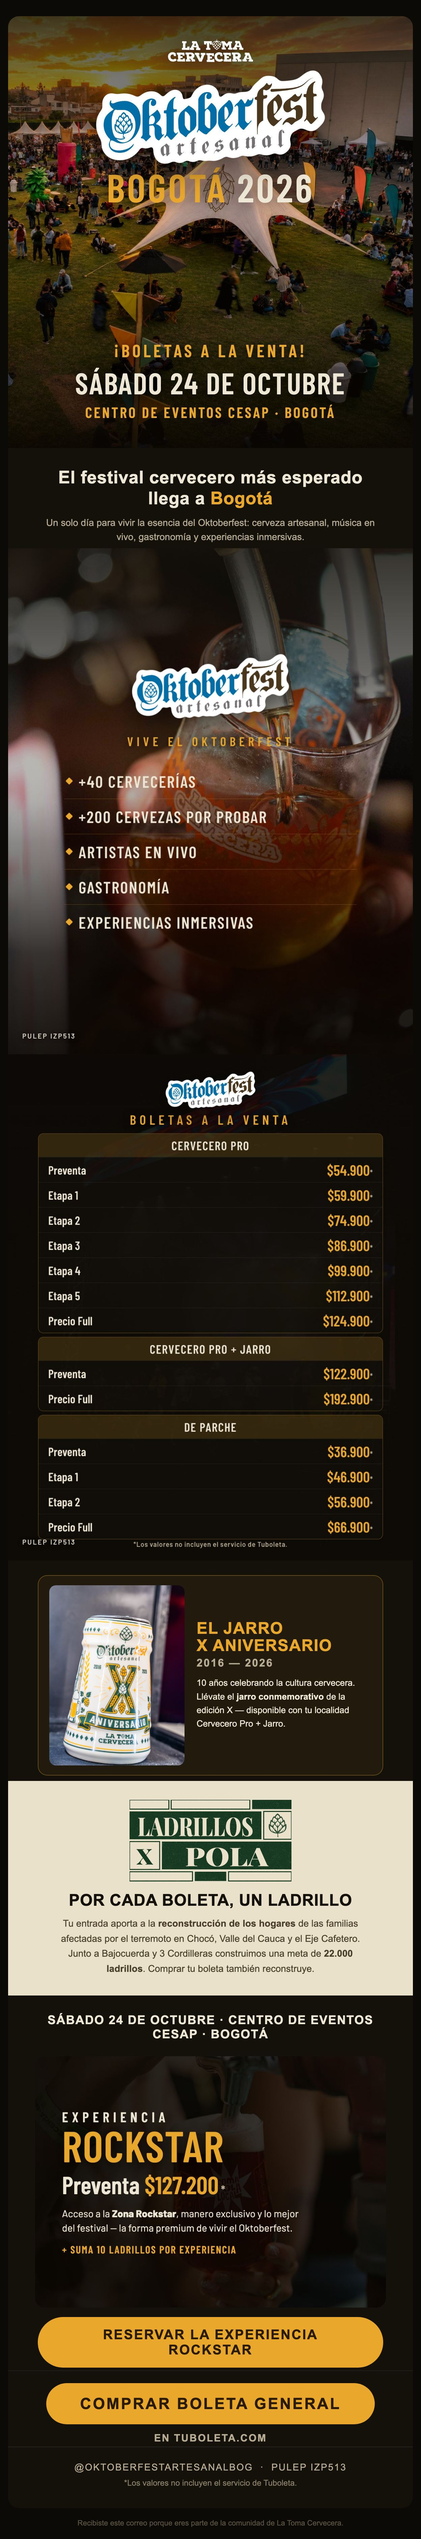
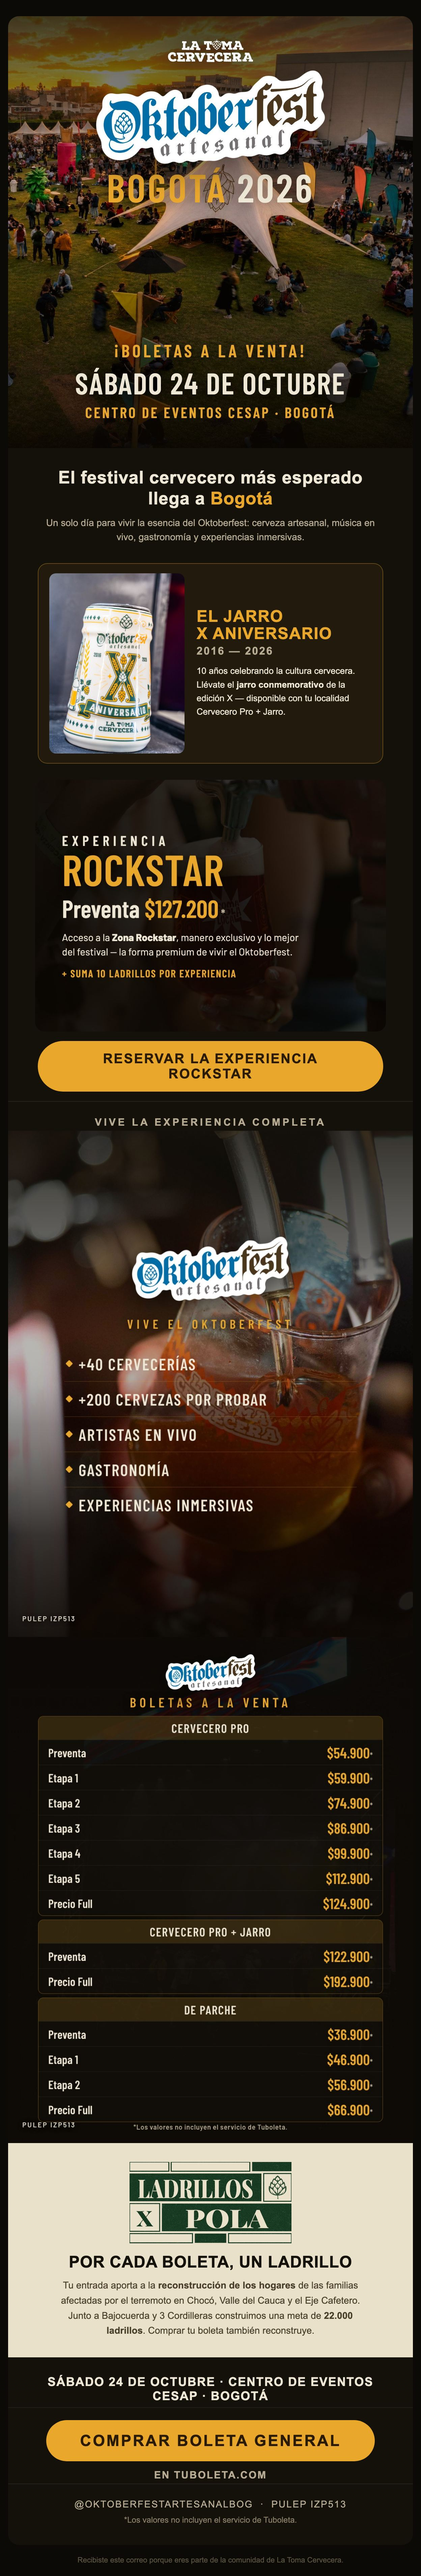
feat: reordena emails — arriba jarro + Experiencia Rockstar (Medellín: Line Up primero); info de valor + Ladrillos abajo

diff --git a/piezas-bogota/renders/email/email-oktoberfest-medellin.html b/piezas-bogota/renders/email/email-oktoberfest-medellin.html
@@ -21,36 +21,12 @@
         experiencias y las atracciones del Parque Norte. 12 horas de festival: 12:00 m. a 12:00 a. m.</div>
     </td></tr>
 
-    <tr><td style="padding:14px 66px 6px;text-align:center;">
-      <div style="font-family:'Barlow Condensed',Arial,sans-serif;font-size:16px;font-weight:600;letter-spacing:.24em;
-        text-transform:uppercase;color:#E9A72C;margin-bottom:6px;">Todo esto te espera</div>
-      <table role="presentation" width="100%" cellpadding="0" cellspacing="0"><tr><td style="padding:8px 0;font-family:'Barlow Condensed',Arial,sans-serif;font-size:24px;
-      font-weight:600;letter-spacing:.04em;text-transform:uppercase;color:#EEE7D6">
-      <span style="color:#E9A72C">&#9670;</span>&nbsp;&nbsp;+70 Cervecerías</td></tr><tr><td style="padding:8px 0;font-family:'Barlow Condensed',Arial,sans-serif;font-size:24px;
-      font-weight:600;letter-spacing:.04em;text-transform:uppercase;color:#EEE7D6">
-      <span style="color:#E9A72C">&#9670;</span>&nbsp;&nbsp;+350 Cervezas por probar</td></tr><tr><td style="padding:8px 0;font-family:'Barlow Condensed',Arial,sans-serif;font-size:24px;
-      font-weight:600;letter-spacing:.04em;text-transform:uppercase;color:#EEE7D6">
-      <span style="color:#E9A72C">&#9670;</span>&nbsp;&nbsp;4 Escenarios en simultáneo</td></tr><tr><td style="padding:8px 0;font-family:'Barlow Condensed',Arial,sans-serif;font-size:24px;
-      font-weight:600;letter-spacing:.04em;text-transform:uppercase;color:#EEE7D6">
-      <span style="color:#E9A72C">&#9670;</span>&nbsp;&nbsp;Artistas en vivo</td></tr><tr><td style="padding:8px 0;font-family:'Barlow Condensed',Arial,sans-serif;font-size:24px;
-      font-weight:600;letter-spacing:.04em;text-transform:uppercase;color:#EEE7D6">
-      <span style="color:#E9A72C">&#9670;</span>&nbsp;&nbsp;Gastronomía urbana</td></tr><tr><td style="padding:8px 0;font-family:'Barlow Condensed',Arial,sans-serif;font-size:24px;
-      font-weight:600;letter-spacing:.04em;text-transform:uppercase;color:#EEE7D6">
-      <span style="color:#E9A72C">&#9670;</span>&nbsp;&nbsp;Atracciones del parque</td></tr></table>
-    </td></tr>
-
     <tr><td style="padding:22px 40px 6px;text-align:center;">
       <div style="font-family:'Barlow Condensed',Arial,sans-serif;font-size:16px;font-weight:600;letter-spacing:.24em;
         text-transform:uppercase;color:#E9A72C;margin-bottom:10px;">Line Up · Artistas confirmados</div>
       <a href="https://www.latiquetera.com" target="_blank"><img src="https://raw.githubusercontent.com/jdbeuth83/propuesta-oktoberfest-2026/claude/tuboleta-piezas-bogota/piezas-bogota/renders/email/lineup-medellin.jpg" width="600" alt="Line Up Oktoberfest Artesanal Medellín 2026: Kraken, Tributo a Caifanes, The Mills, Bajo Tierra, Tributo a Molotov, Nepentes, Lianna, Manuel Urrego, Terlete, DJ Tobby"
         style="display:block;width:100%;max-width:600px;height:auto;border-radius:12px;border:0;"></a>
     </td></tr>
-
-    <tr><td style="padding:10px 40px 6px;">
-      <table role="presentation" width="100%" cellpadding="0" cellspacing="0">
-        <tr><td width="50%" style="padding:4px;"><img src="https://raw.githubusercontent.com/jdbeuth83/propuesta-oktoberfest-2026/claude/tuboleta-piezas-bogota/piezas-bogota/renders/email/med-gal-1.jpg" width="292" alt="Cerveza artesanal" style="display:block;width:100%;height:auto;border-radius:10px;border:0;"></td><td width="50%" style="padding:4px;"><img src="https://raw.githubusercontent.com/jdbeuth83/propuesta-oktoberfest-2026/claude/tuboleta-piezas-bogota/piezas-bogota/renders/email/med-gal-2.jpg" width="292" alt="Escenarios en vivo" style="display:block;width:100%;height:auto;border-radius:10px;border:0;"></td></tr>
-        <tr><td width="50%" style="padding:4px;"><img src="https://raw.githubusercontent.com/jdbeuth83/propuesta-oktoberfest-2026/claude/tuboleta-piezas-bogota/piezas-bogota/renders/email/med-gal-3.jpg" width="292" alt="Miles de asistentes" style="display:block;width:100%;height:auto;border-radius:10px;border:0;"></td><td width="50%" style="padding:4px;"><img src="https://raw.githubusercontent.com/jdbeuth83/propuesta-oktoberfest-2026/claude/tuboleta-piezas-bogota/piezas-bogota/renders/email/med-gal-4.jpg" width="292" alt="Cervecerías" style="display:block;width:100%;height:auto;border-radius:10px;border:0;"></td></tr>
-      </table></td></tr>
 
     <tr><td style="padding:22px 40px 8px;">
       <table role="presentation" width="100%" cellpadding="0" cellspacing="0"
@@ -69,6 +45,42 @@
         </tr>
       </table>
     </td></tr>
+
+    <tr><td style="padding:16px 40px 6px;"><a href="https://www.latiquetera.com" target="_blank">
+      <img src="https://raw.githubusercontent.com/jdbeuth83/propuesta-oktoberfest-2026/claude/tuboleta-piezas-bogota/piezas-bogota/renders/email/med-rockstar.jpg" width="600" alt="Experiencia Rockstar · $159.000 · Zona Rockstar · suma 10 ladrillos"
+        style="display:block;width:100%;max-width:600px;height:auto;border-radius:14px;border:0;"></a></td></tr>
+    <tr><td align="center" style="padding:8px 44px 14px;">
+      <table role="presentation" cellpadding="0" cellspacing="0" align="center"><tr>
+        <td align="center" bgcolor="#E9A72C" style="border-radius:999px;">
+          <a href="https://www.latiquetera.com" target="_blank" style="display:inline-block;padding:15px 40px;
+            font-family:'Barlow Condensed',Arial,sans-serif;font-size:20px;font-weight:700;letter-spacing:.08em;
+            text-transform:uppercase;color:#2A1B06;text-decoration:none;">Reservar la Experiencia Rockstar</a>
+        </td></tr></table>
+    </td></tr>
+
+    <tr><td style="padding:24px 66px 6px;text-align:center;border-top:1px solid rgba(255,255,255,.08);">
+      <div style="font-family:'Barlow Condensed',Arial,sans-serif;font-size:16px;font-weight:600;letter-spacing:.24em;
+        text-transform:uppercase;color:#E9A72C;margin-bottom:6px;">Todo esto te espera</div>
+      <table role="presentation" width="100%" cellpadding="0" cellspacing="0"><tr><td style="padding:8px 0;font-family:'Barlow Condensed',Arial,sans-serif;font-size:24px;
+      font-weight:600;letter-spacing:.04em;text-transform:uppercase;color:#EEE7D6">
+      <span style="color:#E9A72C">&#9670;</span>&nbsp;&nbsp;+70 Cervecerías</td></tr><tr><td style="padding:8px 0;font-family:'Barlow Condensed',Arial,sans-serif;font-size:24px;
+      font-weight:600;letter-spacing:.04em;text-transform:uppercase;color:#EEE7D6">
+      <span style="color:#E9A72C">&#9670;</span>&nbsp;&nbsp;+350 Cervezas por probar</td></tr><tr><td style="padding:8px 0;font-family:'Barlow Condensed',Arial,sans-serif;font-size:24px;
+      font-weight:600;letter-spacing:.04em;text-transform:uppercase;color:#EEE7D6">
+      <span style="color:#E9A72C">&#9670;</span>&nbsp;&nbsp;4 Escenarios en simultáneo</td></tr><tr><td style="padding:8px 0;font-family:'Barlow Condensed',Arial,sans-serif;font-size:24px;
+      font-weight:600;letter-spacing:.04em;text-transform:uppercase;color:#EEE7D6">
+      <span style="color:#E9A72C">&#9670;</span>&nbsp;&nbsp;Artistas en vivo</td></tr><tr><td style="padding:8px 0;font-family:'Barlow Condensed',Arial,sans-serif;font-size:24px;
+      font-weight:600;letter-spacing:.04em;text-transform:uppercase;color:#EEE7D6">
+      <span style="color:#E9A72C">&#9670;</span>&nbsp;&nbsp;Gastronomía urbana</td></tr><tr><td style="padding:8px 0;font-family:'Barlow Condensed',Arial,sans-serif;font-size:24px;
+      font-weight:600;letter-spacing:.04em;text-transform:uppercase;color:#EEE7D6">
+      <span style="color:#E9A72C">&#9670;</span>&nbsp;&nbsp;Atracciones del parque</td></tr></table>
+    </td></tr>
+
+    <tr><td style="padding:10px 40px 6px;">
+      <table role="presentation" width="100%" cellpadding="0" cellspacing="0">
+        <tr><td width="50%" style="padding:4px;"><img src="https://raw.githubusercontent.com/jdbeuth83/propuesta-oktoberfest-2026/claude/tuboleta-piezas-bogota/piezas-bogota/renders/email/med-gal-1.jpg" width="292" alt="Cerveza artesanal" style="display:block;width:100%;height:auto;border-radius:10px;border:0;"></td><td width="50%" style="padding:4px;"><img src="https://raw.githubusercontent.com/jdbeuth83/propuesta-oktoberfest-2026/claude/tuboleta-piezas-bogota/piezas-bogota/renders/email/med-gal-2.jpg" width="292" alt="Escenarios en vivo" style="display:block;width:100%;height:auto;border-radius:10px;border:0;"></td></tr>
+        <tr><td width="50%" style="padding:4px;"><img src="https://raw.githubusercontent.com/jdbeuth83/propuesta-oktoberfest-2026/claude/tuboleta-piezas-bogota/piezas-bogota/renders/email/med-gal-3.jpg" width="292" alt="Miles de asistentes" style="display:block;width:100%;height:auto;border-radius:10px;border:0;"></td><td width="50%" style="padding:4px;"><img src="https://raw.githubusercontent.com/jdbeuth83/propuesta-oktoberfest-2026/claude/tuboleta-piezas-bogota/piezas-bogota/renders/email/med-gal-4.jpg" width="292" alt="Cervecerías" style="display:block;width:100%;height:auto;border-radius:10px;border:0;"></td></tr>
+      </table></td></tr>
 
     <tr><td style="padding:0;">
       <table role="presentation" width="100%" cellpadding="0" cellspacing="0" bgcolor="#EAE1CB" style="background:#EAE1CB;">
@@ -89,18 +101,6 @@
     <tr><td style="padding:26px 44px 6px;text-align:center;">
       <div style="font-family:'Barlow Condensed',Arial,sans-serif;font-size:18px;font-weight:600;color:#EEE7D6;
         letter-spacing:.06em;text-transform:uppercase;">Sábado 26 de septiembre · Parque Norte · Medellín</div>
-    </td></tr>
-
-    <tr><td style="padding:16px 40px 6px;"><a href="https://www.latiquetera.com" target="_blank">
-      <img src="https://raw.githubusercontent.com/jdbeuth83/propuesta-oktoberfest-2026/claude/tuboleta-piezas-bogota/piezas-bogota/renders/email/med-rockstar.jpg" width="600" alt="Experiencia Rockstar · $159.000 · Zona Rockstar · suma 10 ladrillos"
-        style="display:block;width:100%;max-width:600px;height:auto;border-radius:14px;border:0;"></a></td></tr>
-    <tr><td align="center" style="padding:8px 44px 4px;">
-      <table role="presentation" cellpadding="0" cellspacing="0" align="center"><tr>
-        <td align="center" bgcolor="#E9A72C" style="border-radius:999px;">
-          <a href="https://www.latiquetera.com" target="_blank" style="display:inline-block;padding:15px 40px;
-            font-family:'Barlow Condensed',Arial,sans-serif;font-size:20px;font-weight:700;letter-spacing:.08em;
-            text-transform:uppercase;color:#2A1B06;text-decoration:none;">Reservar la Experiencia Rockstar</a>
-        </td></tr></table>
     </td></tr>
 
     <tr><td align="center" style="padding:18px 44px 6px;border-top:1px solid rgba(255,255,255,.06);"><table role="presentation" cellpadding="0" cellspacing="0" align="center"><tr>

diff --git a/piezas-bogota/renders/email/email-oktoberfest-bogota.html b/piezas-bogota/renders/email/email-oktoberfest-bogota.html
@@ -23,13 +23,6 @@
         gastronomía y experiencias inmersivas.</div>
     </td></tr>
 
-    <tr><td style="padding:0;"><a href="https://www.tuboleta.com/es/eventos/oktoberfest-artesanal-bogota-2026" target="_blank">
-      <img src="https://raw.githubusercontent.com/jdbeuth83/propuesta-oktoberfest-2026/claude/tuboleta-piezas-bogota/piezas-bogota/renders/campana-lanzamiento/carrusel-3-experiencias.jpg" width="600" alt="Todo esto te espera: +40 cervecerías, +200 cervezas por probar, artistas en vivo, gastronomía y experiencias inmersivas" style="display:block;width:100%;max-width:600px;height:auto;border:0;">
-    </a></td></tr>
-    <tr><td style="padding:0;"><a href="https://www.tuboleta.com/es/eventos/oktoberfest-artesanal-bogota-2026" target="_blank">
-      <img src="https://raw.githubusercontent.com/jdbeuth83/propuesta-oktoberfest-2026/claude/tuboleta-piezas-bogota/piezas-bogota/renders/campana-lanzamiento/carrusel-2-boleteria.jpg" width="600" alt="Boletas a la venta: Cervecero Pro, Cervecero Pro + Jarro y De Parche" style="display:block;width:100%;max-width:600px;height:auto;border:0;">
-    </a></td></tr>
-
     <tr><td style="padding:22px 44px 8px;">
       <table role="presentation" width="100%" cellpadding="0" cellspacing="0"
         style="background:rgba(233,167,44,.06);border:1px solid rgba(233,167,44,.35);border-radius:14px;">
@@ -47,6 +40,28 @@
         </tr>
       </table>
     </td></tr>
+
+    <tr><td style="padding:16px 40px 6px;"><a href="https://www.tuboleta.com/es/eventos/oktoberfest-artesanal-bogota-2026" target="_blank">
+      <img src="https://raw.githubusercontent.com/jdbeuth83/propuesta-oktoberfest-2026/claude/tuboleta-piezas-bogota/piezas-bogota/renders/email/bog-rockstar.jpg" width="600" alt="Experiencia Rockstar · Preventa $127.200 · Zona Rockstar · suma 10 ladrillos"
+        style="display:block;width:100%;max-width:600px;height:auto;border-radius:14px;border:0;"></a></td></tr>
+    <tr><td align="center" style="padding:8px 44px 14px;">
+      <table role="presentation" cellpadding="0" cellspacing="0" align="center"><tr>
+        <td align="center" bgcolor="#E9A72C" style="border-radius:999px;">
+          <a href="https://www.tuboleta.com/es/eventos/oktoberfest-artesanal-bogota-2026" target="_blank" style="display:inline-block;padding:15px 40px;
+            font-family:'Barlow Condensed',Arial,sans-serif;font-size:20px;font-weight:700;letter-spacing:.08em;
+            text-transform:uppercase;color:#2A1B06;text-decoration:none;">Reservar la Experiencia Rockstar</a>
+        </td></tr></table></td></tr>
+
+    <tr><td style="padding:22px 44px 4px;text-align:center;border-top:1px solid rgba(255,255,255,.08);">
+      <div style="font-family:'Barlow Condensed',Arial,sans-serif;font-size:15px;font-weight:600;letter-spacing:.22em;
+        text-transform:uppercase;color:#B7AC93;">Vive la experiencia completa</div></td></tr>
+
+    <tr><td style="padding:0;"><a href="https://www.tuboleta.com/es/eventos/oktoberfest-artesanal-bogota-2026" target="_blank">
+      <img src="https://raw.githubusercontent.com/jdbeuth83/propuesta-oktoberfest-2026/claude/tuboleta-piezas-bogota/piezas-bogota/renders/campana-lanzamiento/carrusel-3-experiencias.jpg" width="600" alt="Todo esto te espera: +40 cervecerías, +200 cervezas por probar, artistas en vivo, gastronomía y experiencias inmersivas" style="display:block;width:100%;max-width:600px;height:auto;border:0;">
+    </a></td></tr>
+    <tr><td style="padding:0;"><a href="https://www.tuboleta.com/es/eventos/oktoberfest-artesanal-bogota-2026" target="_blank">
+      <img src="https://raw.githubusercontent.com/jdbeuth83/propuesta-oktoberfest-2026/claude/tuboleta-piezas-bogota/piezas-bogota/renders/campana-lanzamiento/carrusel-2-boleteria.jpg" width="600" alt="Boletas a la venta: Cervecero Pro, Cervecero Pro + Jarro y De Parche" style="display:block;width:100%;max-width:600px;height:auto;border:0;">
+    </a></td></tr>
 
     <tr><td style="padding:0;">
       <table role="presentation" width="100%" cellpadding="0" cellspacing="0" bgcolor="#EAE1CB" style="background:#EAE1CB;">
@@ -69,17 +84,6 @@
       <div style="font-family:'Barlow Condensed',Arial,sans-serif;font-size:18px;font-weight:600;color:#EEE7D6;
         letter-spacing:.06em;text-transform:uppercase;">Sábado 24 de octubre · Centro de Eventos CESAP · Bogotá</div>
     </td></tr>
-
-    <tr><td style="padding:16px 40px 6px;"><a href="https://www.tuboleta.com/es/eventos/oktoberfest-artesanal-bogota-2026" target="_blank">
-      <img src="https://raw.githubusercontent.com/jdbeuth83/propuesta-oktoberfest-2026/claude/tuboleta-piezas-bogota/piezas-bogota/renders/email/bog-rockstar.jpg" width="600" alt="Experiencia Rockstar · Preventa $127.200 · Zona Rockstar · suma 10 ladrillos"
-        style="display:block;width:100%;max-width:600px;height:auto;border-radius:14px;border:0;"></a></td></tr>
-    <tr><td align="center" style="padding:8px 44px 4px;">
-      <table role="presentation" cellpadding="0" cellspacing="0" align="center"><tr>
-        <td align="center" bgcolor="#E9A72C" style="border-radius:999px;">
-          <a href="https://www.tuboleta.com/es/eventos/oktoberfest-artesanal-bogota-2026" target="_blank" style="display:inline-block;padding:15px 40px;
-            font-family:'Barlow Condensed',Arial,sans-serif;font-size:20px;font-weight:700;letter-spacing:.08em;
-            text-transform:uppercase;color:#2A1B06;text-decoration:none;">Reservar la Experiencia Rockstar</a>
-        </td></tr></table></td></tr>
 
     <tr><td align="center" style="padding:18px 44px 6px;border-top:1px solid rgba(255,255,255,.06);"><table role="presentation" cellpadding="0" cellspacing="0" align="center"><tr>
       <td align="center" bgcolor="#E9A72C" style="border-radius:999px;">

diff --git a/piezas-bogota/build-email.py b/piezas-bogota/build-email.py
@@ -229,10 +229,25 @@ def email_html(hero_src, exp_src, bol_src, sello_src, jarro_src, rock_src):
         gastronomía y experiencias inmersivas.</div>
     </td></tr>
 
+    {jarro_block(jarro_src)}
+
+    <tr><td style="padding:16px 40px 6px;"><a href="{ROCKSTAR_URL}" target="_blank">
+      <img src="{rock_src}" width="600" alt="Experiencia Rockstar · Preventa {ROCKSTAR_PRICE} · Zona Rockstar · suma 10 ladrillos"
+        style="display:block;width:100%;max-width:600px;height:auto;border-radius:14px;border:0;"></a></td></tr>
+    <tr><td align="center" style="padding:8px 44px 14px;">
+      <table role="presentation" cellpadding="0" cellspacing="0" align="center"><tr>
+        <td align="center" bgcolor="#E9A72C" style="border-radius:999px;">
+          <a href="{ROCKSTAR_URL}" target="_blank" style="display:inline-block;padding:15px 40px;
+            font-family:'Barlow Condensed',Arial,sans-serif;font-size:20px;font-weight:700;letter-spacing:.08em;
+            text-transform:uppercase;color:#2A1B06;text-decoration:none;">Reservar la Experiencia Rockstar</a>
+        </td></tr></table></td></tr>
+
+    <tr><td style="padding:22px 44px 4px;text-align:center;border-top:1px solid rgba(255,255,255,.08);">
+      <div style="font-family:'Barlow Condensed',Arial,sans-serif;font-size:15px;font-weight:600;letter-spacing:.22em;
+        text-transform:uppercase;color:#B7AC93;">Vive la experiencia completa</div></td></tr>
+
     {img_block(exp_src, "Todo esto te espera: +40 cervecerías, +200 cervezas por probar, artistas en vivo, gastronomía y experiencias inmersivas")}
     {img_block(bol_src, "Boletas a la venta: Cervecero Pro, Cervecero Pro + Jarro y De Parche")}
-
-    {jarro_block(jarro_src)}
 
     {franja_ladrillos(sello_src)}
 
@@ -240,17 +255,6 @@ def email_html(hero_src, exp_src, bol_src, sello_src, jarro_src, rock_src):
       <div style="font-family:'Barlow Condensed',Arial,sans-serif;font-size:18px;font-weight:600;color:#EEE7D6;
         letter-spacing:.06em;text-transform:uppercase;">Sábado 24 de octubre · Centro de Eventos CESAP · Bogotá</div>
     </td></tr>
-
-    <tr><td style="padding:16px 40px 6px;"><a href="{ROCKSTAR_URL}" target="_blank">
-      <img src="{rock_src}" width="600" alt="Experiencia Rockstar · Preventa {ROCKSTAR_PRICE} · Zona Rockstar · suma 10 ladrillos"
-        style="display:block;width:100%;max-width:600px;height:auto;border-radius:14px;border:0;"></a></td></tr>
-    <tr><td align="center" style="padding:8px 44px 4px;">
-      <table role="presentation" cellpadding="0" cellspacing="0" align="center"><tr>
-        <td align="center" bgcolor="#E9A72C" style="border-radius:999px;">
-          <a href="{ROCKSTAR_URL}" target="_blank" style="display:inline-block;padding:15px 40px;
-            font-family:'Barlow Condensed',Arial,sans-serif;font-size:20px;font-weight:700;letter-spacing:.08em;
-            text-transform:uppercase;color:#2A1B06;text-decoration:none;">Reservar la Experiencia Rockstar</a>
-        </td></tr></table></td></tr>
 
     <tr><td align="center" style="padding:18px 44px 6px;border-top:1px solid rgba(255,255,255,.06);">{btn("Comprar boleta general")}</td></tr>
     <tr><td align="center" style="padding:6px 44px 4px;">

diff --git a/piezas-bogota/build-email-medellin.py b/piezas-bogota/build-email-medellin.py
@@ -260,35 +260,35 @@ def email_html(hero_src, sello_src, tiq_src, gal_urls, rock_src, lineup_src, jar
         experiencias y las atracciones del Parque Norte. 12 horas de festival: 12:00 m. a 12:00 a. m.</div>
     </td></tr>
 
-    <tr><td style="padding:14px 66px 6px;text-align:center;">
-      <div style="font-family:'Barlow Condensed',Arial,sans-serif;font-size:16px;font-weight:600;letter-spacing:.24em;
-        text-transform:uppercase;color:#E9A72C;margin-bottom:6px;">Todo esto te espera</div>
-      <table role="presentation" width="100%" cellpadding="0" cellspacing="0">{feats_rows()}</table>
-    </td></tr>
-
     {lineup_block(lineup_src)}
 
-    {gallery_block(gal_urls)}
-
     {jarro_block(jarro_src)}
-
-    {franja_ladrillos(sello_src)}
-
-    <tr><td style="padding:26px 44px 6px;text-align:center;">
-      <div style="font-family:'Barlow Condensed',Arial,sans-serif;font-size:18px;font-weight:600;color:#EEE7D6;
-        letter-spacing:.06em;text-transform:uppercase;">Sábado 26 de septiembre · Parque Norte · Medellín</div>
-    </td></tr>
 
     <tr><td style="padding:16px 40px 6px;"><a href="{ROCKSTAR_URL}" target="_blank">
       <img src="{rock_src}" width="600" alt="Experiencia Rockstar · $159.000 · Zona Rockstar · suma 10 ladrillos"
         style="display:block;width:100%;max-width:600px;height:auto;border-radius:14px;border:0;"></a></td></tr>
-    <tr><td align="center" style="padding:8px 44px 4px;">
+    <tr><td align="center" style="padding:8px 44px 14px;">
       <table role="presentation" cellpadding="0" cellspacing="0" align="center"><tr>
         <td align="center" bgcolor="#E9A72C" style="border-radius:999px;">
           <a href="{ROCKSTAR_URL}" target="_blank" style="display:inline-block;padding:15px 40px;
             font-family:'Barlow Condensed',Arial,sans-serif;font-size:20px;font-weight:700;letter-spacing:.08em;
             text-transform:uppercase;color:#2A1B06;text-decoration:none;">Reservar la Experiencia Rockstar</a>
         </td></tr></table>
+    </td></tr>
+
+    <tr><td style="padding:24px 66px 6px;text-align:center;border-top:1px solid rgba(255,255,255,.08);">
+      <div style="font-family:'Barlow Condensed',Arial,sans-serif;font-size:16px;font-weight:600;letter-spacing:.24em;
+        text-transform:uppercase;color:#E9A72C;margin-bottom:6px;">Todo esto te espera</div>
+      <table role="presentation" width="100%" cellpadding="0" cellspacing="0">{feats_rows()}</table>
+    </td></tr>
+
+    {gallery_block(gal_urls)}
+
+    {franja_ladrillos(sello_src)}
+
+    <tr><td style="padding:26px 44px 6px;text-align:center;">
+      <div style="font-family:'Barlow Condensed',Arial,sans-serif;font-size:18px;font-weight:600;color:#EEE7D6;
+        letter-spacing:.06em;text-transform:uppercase;">Sábado 26 de septiembre · Parque Norte · Medellín</div>
     </td></tr>
 
     <tr><td align="center" style="padding:18px 44px 6px;border-top:1px solid rgba(255,255,255,.06);">{btn("Comprar boleta general")}</td></tr>
